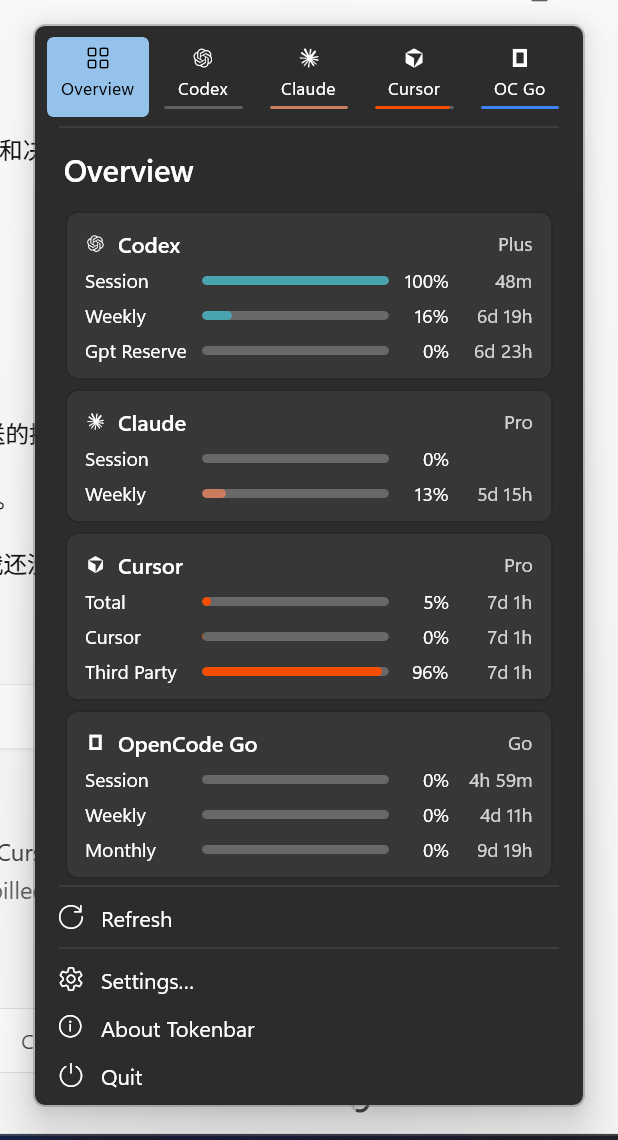
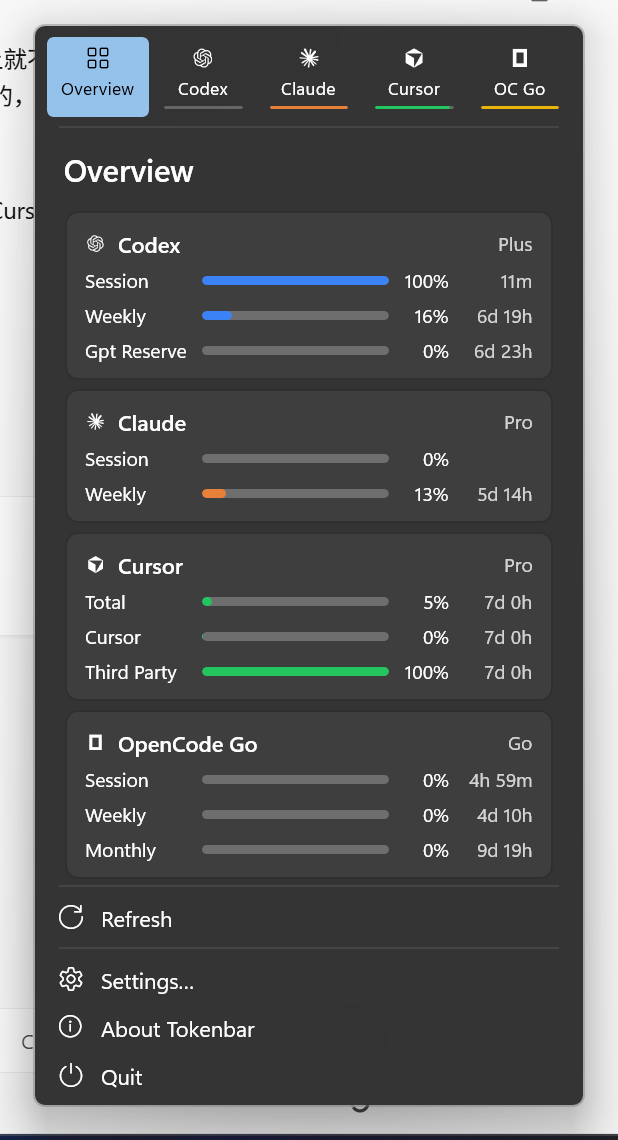
用量条改用 AZ 指定配色：Codex 蓝、Claude 橙、Cursor 绿、OpenCode 黄，标签小条同步

diff --git a/src/Tokenbar/Models/UsageModels.cs b/src/Tokenbar/Models/UsageModels.cs
@@ -88,13 +88,13 @@ public static class Providers
 {
     public static readonly IReadOnlyList<ProviderInfo> All =
     [
-        new(ProviderId.Codex, "Codex", "codex", "codex", "#49A3B0"),
-        new(ProviderId.Claude, "Claude", "claude", "claude", "#CC7C5E"),
-        new(ProviderId.Cursor, "Cursor", "cursor", "cursor", "#F54E00"),
+        new(ProviderId.Codex, "Codex", "codex", "codex", "#3B82F6"),
+        new(ProviderId.Claude, "Claude", "claude", "claude", "#E8803A"),
+        new(ProviderId.Cursor, "Cursor", "cursor", "cursor", "#22C55E"),
         new(ProviderId.Gemini, "Gemini", "gemini", "gemini", "#AB87EA"),
         new(ProviderId.Antigravity, "Antigravity", "antigravity", "antigravity", "#60BA7E"),
-        new(ProviderId.OpenCode, "OpenCode Zen", "opencode", "opencode", "#3B82F6"),
-        new(ProviderId.OpenCodeGo, "OpenCode Go", "opencodego", "opencodego", "#3B82F6"),
+        new(ProviderId.OpenCode, "OpenCode Zen", "opencode", "opencode", "#EAB308"),
+        new(ProviderId.OpenCodeGo, "OpenCode Go", "opencodego", "opencodego", "#EAB308"),
         new(ProviderId.Grok, "Grok", "grok", "grok", null),
         new(ProviderId.OpenRouter, "OpenRouter", "openrouter", "openrouter", "#6B7280"),
     ];

diff --git a/src/Tokenbar/Views/FlyoutWindow.xaml.cs b/src/Tokenbar/Views/FlyoutWindow.xaml.cs
@@ -242,7 +242,7 @@ public sealed partial class FlyoutWindow : Window
             TextTrimming = TextTrimming.CharacterEllipsis,
         });
         panel.Children.Add(remaining is double r
-            ? MiniMeter(r < 0 ? null : r, selected ? fg : meterBrush ?? fg)
+            ? MiniMeter(r < 0 ? null : r, meterBrush ?? fg)
             : new Border { Height = 2, Margin = new Thickness(0, 2, 0, 0) });
 
         var button = new Button

diff --git a/docs/DECISION_LOG.md b/docs/DECISION_LOG.md
@@ -19,3 +19,4 @@
 - 2026-10-07 [踩坑] WinUI ProgressBar 底轨固定约 1px 加不粗，改为自绘胶囊条
 - 2026-10-07 [决策] Cursor 的 API 价值只放在 Cursor 页，不进总览；总览只汇总真实扣费（AZ 要求）
 - 2026-10-07 [决策] 仓库公开，许可证 MIT（和 CodexBar、Win-CodexBar 一致），允许 fork；提交作者邮箱保留不改历史（AZ 确认）；子模块地址改 HTTPS
+- 2026-10-07 [决策] 用量条配色按 AZ 指定：Codex 蓝 #3B82F6、Claude 橙 #E8803A、Cursor 绿 #22C55E、OpenCode（Zen / Go）黄 #EAB308；标签小条与用量条同色（选中标签也用品牌色）
